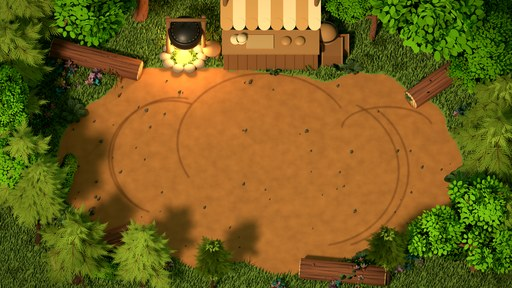
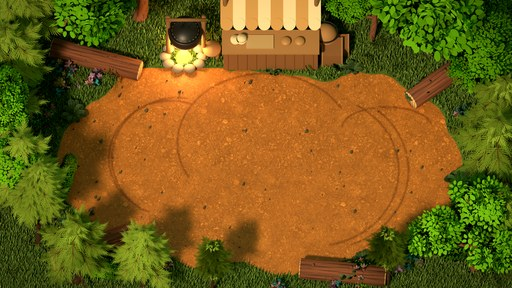
Clairière 3D : sol en vraies textures photo (terre et herbe), carte réinstallée, journal
Claude-Session: https://claude.ai/code/session_011iTQJ3ptn1M89syPvc6cfN

diff --git a/docs/memoire/JOURNAL.md b/docs/memoire/JOURNAL.md
@@ -3,7 +3,13 @@
 Mémoire partagée entre les sessions de travail. Ajouter une entrée datée en haut à chaque session.
 Pour reprendre vite : lire d'abord [[REPRISE]] (`docs/memoire/REPRISE.md`).
 
-## Où on en est (17/11/2026)
+## Où on en est (18/11/2026)
+
+**18/11/2026 : sol réaliste de la Clairière (textures Poly Haven)**
+- Rudy a autorisé de nouveaux domaines dans l'environnement cloud : `dl.polyhaven.org` fonctionne (Poly Haven en entier) ; ambientCG (fichiers), Kenney, itch.io, Mixamo, etc. restent bloqués (liste dans `ATELIER-BLENDER.md` section 6).
+- Le sol de la Clairière est maintenant fait de **vraies photos** (Poly Haven, CC0) : `brown_mud_dry` pour la terre, `rocky_terrain_02` pour l'herbe, teintées pour retrouver les couleurs de la peinture, relief et rugosité réels, traces de roues par-dessus. Premier essai trop granuleux et trop vif (cailloux démesurés) : on ne garde que 55 % du motif de la photo. Carte rendue en 3360 x 1888 et installée dans le jeu (`install_map.py`).
+- Nouveaux scripts : `tools/blender/make_paint.py` (reconstruit les peintures du chat, vérifié à l'identique) et `fetch_textures.py`. **Piège trouvé** : le dossier `tools/blender/_work/` n'est pas dans git, une nouvelle session n'aurait pas pu refaire le chat sans `make_paint.py`.
+- Pas fait : l'étal et la marmite restent simples comparés à la peinture ; les 7 autres cartes ; les autres personnages. Version sur la branche de travail, **à fusionner après l'accord de Rudy**.
 
 **17/11/2026, FIN DE JOURNÉE : résumé pour reprendre**
 - Rudy s'arrête là pour aujourd'hui. Tout est fusionné sur `main`. Où on en est et comment reprendre : voir [[REPRISE]] (section 0) et [[ATELIER-BLENDER]] (méthode, outils, 12 erreurs commises avec leur leçon, check-list avant fusion).
